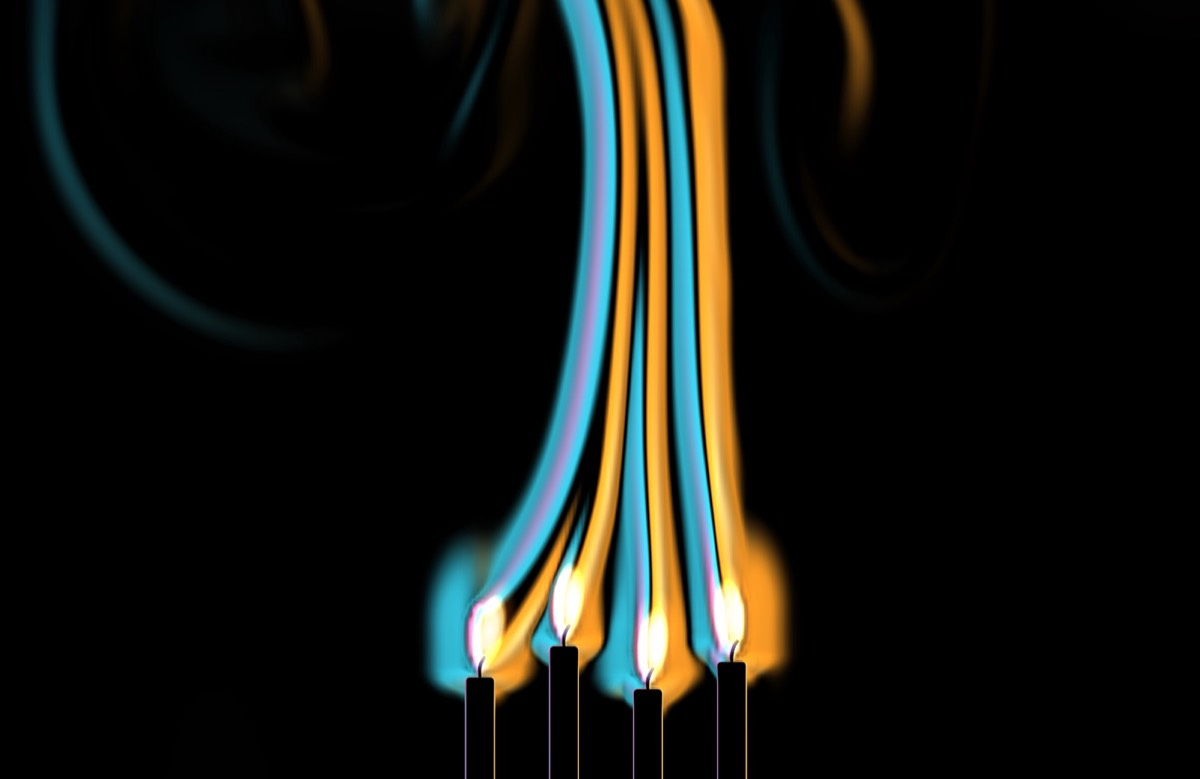
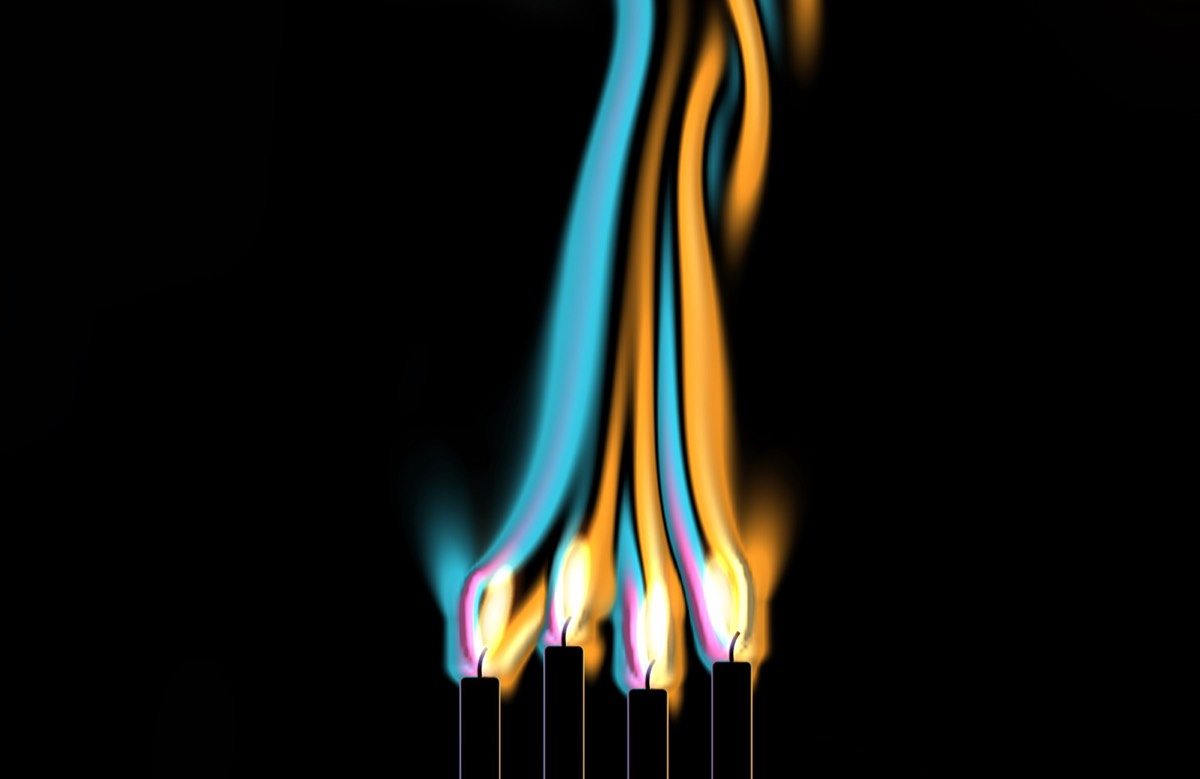
Schlieren: match the photos more closely; version 0.57.1
Side by side with Davidhazy's and Settles' photos, plumes were thin ribbons
cycling through every colour and puffed into a bulb round each flame. Flame gas
now mixes down quickly above the flame, each flame is stamped with the first
centimetres of its plume as a widening cone (the V at the base), the rainbow
and dark field hold their outer colours instead of going black, and each filter
gets its rig's gain. A mug sheds several columns and its walls glow less, and
the precomputed flame stamps take 0.6 ms off the frame.

diff --git a/Sources/Atrium/Schlieren.swift b/Sources/Atrium/Schlieren.swift
@@ -16,9 +16,12 @@ final class Schlieren: SKScene {
     /// µrad filter near the flame, as in the photos; a mug's plume bends light a tenth as much, so its rig is more
     /// sensitive (research notes in docs/schlieren.md).
     nonisolated static let sources: [(name: String, metres: Float, depth: Float, span: Float)] = [
-        ("Candles", 0.18, 0.012, 450), ("Candle", 0.32, 0.02, 260), ("Mug", 0.34, 0.05, 90), ("Warm air", 0.4, 0.08, 120),
+        ("Candles", 0.13, 0.012, 450), ("Candle", 0.32, 0.02, 260), ("Mug", 0.34, 0.05, 90), ("Warm air", 0.4, 0.08, 120),
     ]
     nonisolated static let filters = ["Dark field", "Rainbow", "Bands", "Knife edge"]
+    /// Each filter's rig as it was set in the photos: the rainbow and band shots run their plumes out to the filter's
+    /// outer colours, the dark field and knife edge keep them softer.
+    nonisolated static let filterGain: [Float] = [1, 2, 1.6, 1]
     nonisolated static let knobs = [
         Knob(key: "schlieren.source", label: "Heat", range: 0...Double(sources.count - 1), standard: 0, format: .choice(sources.map(\.name))),
         Knob(key: "schlieren.filter", label: "Filter", range: 0...Double(filters.count - 1), standard: 0, format: .choice(filters)),
@@ -75,7 +78,7 @@ final class Schlieren: SKScene {
         screen.anchorPoint = .zero
         uniforms.aspect.floatValue = Float(size.width / size.height)
         // the light doesn't quite focus on the filter's centre everywhere, so the background drifts a little across it
-        uniforms.tilt.vectorFloat2Value = [Float.random(in: -0.25...0.25), Float.random(in: -0.1...0.1)]
+        uniforms.tilt.vectorFloat2Value = [Float.random(in: -0.15...0.15), Float.random(in: -0.08...0.08)]
         screen.shader = SKShader(source: shaderCommon + Self.shader, uniforms: [
             uniforms.field, uniforms.mask, uniforms.filter, uniforms.texel, uniforms.mtexel, uniforms.gain, uniforms.mirror,
             uniforms.aspect, uniforms.tilt, uniforms.visible, WallpaperTime.now,
@@ -94,7 +97,7 @@ final class Schlieren: SKScene {
         shown = (source, filter)
         let s = Self.sources[source]
         // bend in filter half-widths per unit of ∇(T0/T) per fine cell: (n0 − 1)·depth / span / cell size
-        uniforms.gain.floatValue = 2.72e-4 * s.depth / (s.span * 1e-6) / air.cell * Float(Self.knobs[2].value)
+        uniforms.gain.floatValue = 2.72e-4 * s.depth / (s.span * 1e-6) / air.cell * Float(Self.knobs[2].value) * Self.filterGain[filter]
         uniforms.mirror.floatValue = Float(Self.knobs[5].value)
         for (uniform, knob) in zip(look, gradeKnobs("schlieren")) { uniform.floatValue = Float(knob.value) }
     }
@@ -122,9 +125,9 @@ final class Schlieren: SKScene {
         case 2: // a mug of coffee at 70 °C: its surface and walls warm the air (θ = ΔT/T0)
             let x = 0.5 * width, r: Float = 0.042, h: Float = 0.095, base: Float = 0.01
             air.addSolid(x0: x - r, x1: x + r, y0: 0, y1: base + h)
-            air.heaters.append(.init(x: x, y: base + h, width: 2 * r * 0.92, height: 0.006, heat: 0.15, flame: false))
+            air.heaters.append(.init(x: x, y: base + h - 0.003, width: 2 * r * 0.9, height: 0.005, heat: 0.15, flame: false, ripple: 0.4))
             for side: Float in [-1, 1] {
-                air.heaters.append(.init(x: x + side * (r + 0.002), y: base + 0.01, width: 0.004, height: h - 0.012, heat: 0.1, flame: false))
+                air.heaters.append(.init(x: x + side * (r + 0.001), y: base + 0.01, width: 0.002, height: h - 0.012, heat: 0.05, flame: false))
             }
             shapes.append { ctx in
                 let cx = CGFloat(x), r = CGFloat(r), h = CGFloat(h), base = CGFloat(base)
@@ -137,7 +140,7 @@ final class Schlieren: SKScene {
             let top: Float = 0.018
             air.addSolid(x0: 0, x1: width, y0: 0, y1: top)
             for i in 0..<5 {
-                air.heaters.append(.init(x: (0.1 + 0.2 * Float(i)) * width, y: top, width: 0.06, height: 0.006, heat: 0.2, flame: false))
+                air.heaters.append(.init(x: (0.1 + 0.2 * Float(i)) * width, y: top, width: 0.06, height: 0.006, heat: 0.2, flame: false, ripple: 0.6))
             }
             air.cool = 0.35
             shapes.append { ctx in
@@ -171,7 +174,7 @@ final class Schlieren: SKScene {
         for flame in flames { flame.node.removeFromParent() }
         flames = air.heaters.indices.filter { air.heaters[$0].flame }.map { i in
             let h = air.heaters[i]
-            let node = SKSpriteNode(texture: Self.flameTexture, size: CGSize(width: CGFloat(h.width) * scale.x * 2, height: CGFloat(h.height) * scale.y * 1.5))
+            let node = SKSpriteNode(texture: Self.flameTexture, size: CGSize(width: CGFloat(h.width) * scale.x * 1.5, height: CGFloat(h.height) * scale.y * 1.5))
             node.anchorPoint = CGPoint(x: 0.5, y: 0.08)
             node.blendMode = .add
             node.zPosition = 1
@@ -234,7 +237,8 @@ final class Schlieren: SKScene {
 
     /// What the camera sees for a bend of (x, y) filter half-widths, over ±2 half-widths: the filter's colour
     /// averaged over the light source's image as the bend slides it across, a slit for the strips and knife edge, a
-    /// pinhole round the dark field's stop. Past the filter's edge is its opaque holder, so the brightest bends go black.
+    /// pinhole round the dark field's stop. The bands end in an opaque holder, so their strongest bends go black; the
+    /// rainbow's and dark field's outer colours run on, as round the flames in Davidhazy's and Settles' photos.
     nonisolated static func filterTable(_ filter: Int, _ c: [SIMD3<Float>]) -> SKTexture {
         let n = 128
         var source: [SIMD2<Float>] = []
@@ -256,9 +260,9 @@ final class Schlieren: SKScene {
             case 0: // a round stop, ringed by the left colours on the left and the right colours on the right
                 let r = simd_length(p), side = smooth(-0.7, 0.7, p.x / max(r, 1e-4))
                 let inner = simd_mix(c[1], c[3], SIMD3(repeating: side)), outer = simd_mix(c[0], c[4], SIMD3(repeating: side))
-                return simd_mix(inner, outer, SIMD3(repeating: smooth(0.35, 1.3, r))) * smooth(0.18, 0.2, r) * (1 - smooth(1.7, 1.9, r))
-            case 1: // a continuous strip, as in rainbow schlieren
-                return ramp(p.x) * (1 - smooth(1.15, 1.3, abs(p.x)))
+                return simd_mix(inner, outer, SIMD3(repeating: smooth(0.35, 1.3, r))) * smooth(0.18, 0.2, r)
+            case 1: // a continuous strip, as in rainbow schlieren, its end colours running on to the edge
+                return ramp(p.x)
             case 2: // coloured strips, with the thin dark gaps between an LED's dies
                 let x = abs(p.x), band = x < 0.3 ? 2 : x < 0.9 ? (p.x < 0 ? 1 : 3) : x < 1.4 ? (p.x < 0 ? 0 : 4) : -1
                 let gap = min(abs(x - 0.3), abs(x - 0.9), abs(x - 1.4)) < 0.035 ? Float(0.15) : 1
@@ -345,7 +349,7 @@ final class Schlieren: SKScene {
 /// lacks, where a real plume spreads and dilutes.
 final class AirSim {
     /// A source of heat: a flame (a teardrop of hot gas `heat` hot, in a halo of warmed air) or a warm patch.
-    struct Heater { var x, y, width, height, heat: Float; var flame: Bool }
+    struct Heater { var x, y, width, height, heat: Float; var flame: Bool; var ripple: Float = 0 }
 
     let nx: Int, ny: Int, w: Int, h: Float
     let fx: Int, fy: Int, fw: Int, cell: Float
@@ -354,7 +358,8 @@ final class AirSim {
     private(set) var t: UnsafeMutablePointer<Float>
     private var t1, t2, ox, oy, lo, hi: UnsafeMutablePointer<Float>
     private var solid: [Bool]
-    var heaters: [Heater] = []
+    var heaters: [Heater] = [] { didSet { stamps = [:] } }
+    private var stamps: [Int: (x0: Int, y0: Int, cols: Int, values: [Float])] = [:]
     var draftStrength: Float = 0.02
     var wander = false
     private var draft: [Float], time: Float = 0
@@ -435,43 +440,72 @@ final class AirSim {
         advect(u, into: a, dt); advect(v, into: b, dt)
         swap(&u, &a); swap(&v, &b)
         advectFine(dt)
-        // warm air mixes out, spreading and cooling
-        let passes = max(1, Int((diffuse * dt / (cell * cell) / 0.2).rounded(.up)))
+        // warm air mixes out, spreading and cooling; flame gas, hundreds of degrees hotter, mixes down to a few hundred
+        // within a couple of centimetres (θ ≈ 1 by the flame's tip, NIST), so the plume above is broad and smooth
+        let passes = max(1, Int((diffuse * dt / (cell * cell) / 0.24).rounded(.up))) // explicit diffusion is stable to 0.25
         let decay = exp(-cool * dt / Float(passes)), c = diffuse * dt / (cell * cell) / Float(passes)
+        let quench = 1 - exp(-12 * dt / Float(passes))
         for _ in 0..<passes {
             for y in 1...fy { for x in 1...fx {
                 let k = y * fw + x
-                t2[k] = (t[k] + c * (t[k - 1] + t[k + 1] + t[k - fw] + t[k + fw] - 4 * t[k])) * decay
+                let mixed = t[k] + c * (t[k - 1] + t[k + 1] + t[k - fw] + t[k + fw] - 4 * t[k])
+                t2[k] = (mixed - max(mixed - 0.8, 0) * quench) * decay
             } }
             swap(&t, &t2)
         }
         time += dt
     }
 
-    /// Holds each heater's air at its temperature: a flame is a teardrop of gas at ~1150 K (θ = 3) in a halo of air
-    /// it has warmed, which makes the plume as wide as the candle, as in the photos.
+    /// Holds each heater's air at its temperature. A flame is a teardrop of gas at ~1150 K (θ = 3), and above it the
+    /// first few centimetres of its plume: a cone that starts as wide as the flame and widens and cools as it rises
+    /// (θ ≈ 1 by the tip, NIST), after which the sim carries it on. That gives the V the photos show at the base. Flames
+    /// are stamped from a table made once; warm patches, which ripple, are drawn each step.
     private func heat() {
         let fw = fw, cell = cell
         for (i, f) in heaters.enumerated() {
-            let halo: Float = f.flame ? f.width * 1.2 : 0, tall = f.flame ? f.height * flicker(i) : f.height
-            let x0 = max(1, Int((f.x - f.width - 3 * halo) / cell)), x1 = min(fx, Int((f.x + f.width + 3 * halo) / cell) + 1)
-            let y0 = max(1, Int((f.y - halo) / cell)), y1 = min(fy, Int((f.y + tall + 6 * halo) / cell) + 1) // where the halo fades out
+            if f.flame {
+                if stamps[i] == nil { stamps[i] = stamp(f) }
+                let (x0, y0, cols, values) = stamps[i]!
+                var j = 0
+                for y in y0..<y0 + values.count / cols {
+                    let row = y * fw
+                    for x in x0..<x0 + cols { t[row + x] = max(t[row + x], values[j]); j += 1 }
+                }
+                continue
+            }
+            let x0 = max(1, Int((f.x - f.width) / cell)), x1 = min(fx, Int((f.x + f.width) / cell) + 1)
+            let y0 = max(1, Int((f.y - f.height) / cell)), y1 = min(fy, Int((f.y + 2 * f.height) / cell) + 1)
             guard x0 <= x1, y0 <= y1 else { continue }
             for y in y0...y1 { for x in x0...x1 {
                 let px = (Float(x) - 0.5) * cell - f.x, py = (Float(y) - 0.5) * cell - f.y
-                var q: Float
-                if f.flame {
-                    let e = px * px / (f.width * f.width * 0.25) + pow((py - tall * 0.45) / (tall * 0.55), 2)
-                    let above = max(py - tall * 0.6, 0), below = min(py, 0)
-                    q = max(e < 1 ? f.heat * (1 - e * e) : 0, 0.8 * exp(-(px * px + above * above * 0.3 + below * below * 4) / (halo * halo)))
-                } else {
-                    let ex = max(abs(px) - f.width * 0.5, 0) / (cell * 2), ey = max(abs(py - f.height * 0.5) - f.height * 0.5, 0) / (cell * 2)
-                    q = f.heat * exp(-ex * ex - ey * ey)
-                }
+                let ex = max(abs(px) - f.width * 0.5, 0) / (cell * 2), ey = max(abs(py - f.height * 0.5) - f.height * 0.5, 0) / (cell * 2)
+                // a warm surface sheds its heat from a few wandering spots, not evenly
+                let spots = f.ripple * (sin(px * 260 + time * 0.7) * sin(px * 97 - time * 0.45 + Float(i)))
                 let k = y * fw + x
-                t[k] = max(t[k], q)
+                t[k] = max(t[k], f.heat * exp(-ex * ex - ey * ey) * (1 + spots))
             } }
         }
+    }
+
+    /// A flame and the start of its plume, as θ on the fine cells round it: its first cell and the table's width.
+    private func stamp(_ f: Heater) -> (x0: Int, y0: Int, cols: Int, values: [Float]) {
+        let rise = f.height * 2.5, spread: Float = 0.3 // the cone's height, and how fast it widens
+        let reach = f.width + (f.width * 0.5 + spread * rise) * 2
+        let x0 = max(1, Int((f.x - reach) / cell)), x1 = min(fx, Int((f.x + reach) / cell) + 1)
+        let y0 = max(1, Int((f.y - f.width) / cell)), y1 = min(fy, Int((f.y + f.height + rise) / cell) + 1)
+        guard x0 <= x1, y0 <= y1 else { return (1, 1, 1, []) }
+        var values: [Float] = []
+        for y in y0...y1 { for x in x0...x1 {
+            let px = (Float(x) - 0.5) * cell - f.x, py = (Float(y) - 0.5) * cell - f.y
+            let dy = (py - f.height * 0.45) / (f.height * 0.55), e = px * px / (f.width * f.width * 0.25) + dy * dy
+            let flame = e < 1 ? f.heat * (1 - e * e) : 0
+            // the cone: from the flame's middle up, a Gaussian across that widens as it cools, fading in below
+            let z = max(py - f.height * 0.5, 0), width = f.width * 0.5 + spread * z
+            let fade = py < 0 ? exp(-py * py / (f.width * f.width * 0.1)) : 1
+            let cone = 1.1 / (1 + 2.5 * z / f.height) * exp(-px * px / (width * width)) * fade * max(1 - z / rise, 0)
+            values.append(max(flame, cone))
+        } }
+        return (x0, y0, x1 - x0 + 1, values)
     }
 
     /// Vorticity confinement: puts back the small swirls that the coarse grid smooths away.

diff --git a/docs/schlieren.md b/docs/schlieren.md
@@ -21,12 +21,13 @@ Rising heat as a colour schlieren camera sees it, after the photos of Gary Settl
    - Air's own dispersion is 1–2% across the visible, so all the colour comes from the filter.
 2. **Filters** (`filterTable`). A pixel's colour is ∫ S(p)·F(p + Δ) dp: the filter F averaged over the source's image S as the bend slides it across. That's baked on the CPU into a 128×128 table over ±2 half-widths, and the shader does one lookup.
    - The source's image is a slit (24 samples, 0.24 half-widths wide) for the strips and knife edge, and a disc (48 golden-angle samples, radius 0.13) for the dark field. Its size is what softens every hue boundary into a ramp, as in the photos.
-   - Past the filter's edge is its opaque holder, so the strongest bends go black: around the flame, along a hot mug wall, at the edge of a plume that's too strong for the rig, as in real photos.
+   - The bands end in an opaque holder, so their strongest bends go black, as in Settles' tricolour photo. The rainbow's and the dark field's outer colours run on to the table's edge. Round the flames in Davidhazy's and Settles' photos the colour saturates rather than going black, and a first version that blacked them out looked wrong beside them.
+   - Each filter has its own gain (`filterGain`: dark field 1, rainbow 2, bands 1.6, knife edge 1), for its rig as set in the photos. The rainbow and band shots run their plumes out to the outer colours; the dark field and knife edge keep them softer.
 
    | Filter | Background | What it shows | After |
    |---|---|---|---|
-   | Dark field (default) | black | a round stop ringed by the left colours on the left and the right colours on the right; brightness grows with the bend, so plumes glow on black | Settles' candle bands, his teakettle |
-   | Rainbow | the centre colour | a continuous strip through all five colours; colour tracks the sideways bend | Davidhazy's four candles, Howes' and Greenberg's continuous filters |
+   | Dark field (default) | black | a round stop ringed by the left colours on the left and the right colours on the right; brightness grows with the bend, so plumes glow on black, and the outer colours run on | Settles' candle bands, his teakettle |
+   | Rainbow | the centre colour | a continuous strip through all five colours, its ends running on; colour tracks the sideways bend | Davidhazy's four candles, Howes' and Greenberg's continuous filters |
    | Bands | the centre colour | coloured strips (0.3 and 0.9 half-widths), with the thin dark gaps between an LED's dies | Settles' red-field candle (a tricolour LED at the source, a slit at the cutoff) |
    | Knife edge | the centre colour | a knife edge graded from shade to clear: relief, lit from one side, tinted by the palette | Kinsman's pastel candles, Settles' sepia transition photo |
 
@@ -35,16 +36,19 @@ Rising heat as a colour schlieren camera sees it, after the photos of Gary Settl
    - Velocity runs on a coarse grid, 64 rows for the frame plus 8 above it, so plumes leave the picture before they meet the sim's edge. That's 99×72 at 16:10. It uses FlameSim's scheme (Stam's stable fluids, red-black SOR with 16 iterations, vorticity confinement), with its own sources and boundaries.
    - Temperature, θ = ΔT/T0, runs on a grid three times finer (297×216) by MacCormack advection (Selle et al. 2008), limited to the cells it read so it can't overshoot. Schlieren is a derivative, so numerical diffusion erases exactly the thin edges it shows. A plain semi-Lagrangian field lost them.
    - Buoyancy is g·θ/(1 + θ), against the room's mean. The edges are open: pressure 0 past them, with velocity copied into the ghost ring. Open edges let a drift of the whole field build up, which went unstable within 10 s of sim time in the prototype. So the mean velocity is removed every step, as in a still room.
-   - A 2D slice can't spread heat sideways in depth, as a real plume does. Drag (1.2/s), cooling (1/s, 0.35 for the radiator) and a little diffusion (3e-5 m²/s) stand in for it, so plumes don't accelerate forever.
+   - A 2D slice can't spread heat sideways in depth, as a real plume does. Drag (1.2/s), cooling (1/s, 0.35 for the radiator) and a little diffusion (3e-5 m²/s, explicit, in as many passes as keep it under 0.25 a pass) stand in for it, so plumes don't accelerate forever.
+   - Flame gas above θ 0.8 is quenched toward it at 12/s. Gas hundreds of degrees hotter than the plume mixes down within a couple of centimetres (θ ≈ 1 by the tip, NIST). Without it, a thin thread of flame-hot gas rose through each plume and drew it as narrow ribbons cycling through every colour, where the photos show broad, smooth bands.
    - A draft drifts back and forth, a little differently at each height (two sines over time plus a shear wave 25 rad/m tall). That sets plumes swaying and kinks them into curls and turbulence, as room air does. Without it a single candle stayed laminar to the top of the frame.
    - Room air comes in at the bottom and sides, and at the top the air leaves as it is.
 5. **Heat sources** (`build`). Sizes are real:
-   - **Candles:** four birthday candles 6.4 mm across, with 6×16 mm flames, in a 0.18 m frame.
+   - **Candles:** four birthday candles 6.4 mm across, with 6×16 mm flames, in a 0.13 m frame, about Davidhazy's.
    - **Candle:** one 21 mm taper (NIST's, with a 42 mm flame; ours is 34 mm tall) in a 0.32 m frame.
-   - **Mug:** 84 mm across and 95 mm tall. Its coffee surface is at θ 0.15 (about 70 °C) and its walls at 0.1, in a 0.34 m frame.
+   - **Mug:** 84 mm across and 95 mm tall, in a 0.34 m frame. Its coffee surface, just below the rim, is at θ 0.15 (about 70 °C). Its walls are at 0.05 in a 2 mm layer; at 0.1 and 4 mm they glowed far brighter than Kinsman's thin halo.
    - **Warm air:** a radiator along the bottom with five hotter patches at θ 0.2.
 
-   A flame holds a teardrop of gas at θ 3 (about 1150 K), in a halo of warmed air 1.2 flame-widths wide, which makes the plume as wide as the candle, as in the photos. `span` per source follows the research: candles saturate a 100–300 µrad filter near the flame, while a mug's plume bends light a tenth as much, so its rig is more sensitive.
+   - A flame is `stamp`ed each step from a table made once. It's a teardrop of gas at θ 3 (about 1150 K). Above it sits the first 2.5 flame heights of its plume: a Gaussian across, starting half a flame wide at the flame's middle and widening 0.3 m per metre, with θ = 1.1/(1 + 2.5z/height), fading to nothing at the cone's top and just below the flame. That gives the V the photos show at the base. A round halo round the flame instead made a bulb wider than the plume above it, which no photo shows.
+   - Warm patches (the mug, the radiator) are drawn each step, since they ripple. Their heat comes off in a few wandering spots (two sines across them) rather than evenly, so a mug sheds several columns.
+   - `span` per source follows the research: candles saturate a 100–300 µrad filter near the flame, while a mug's plume bends light a tenth as much, so its rig is more sensitive.
 6. **Shader.**
    - The bend is a central difference of T0/T (16 bits in red and green, linear filtering) at ±1 fine texel. That's a bilinear interpolation of the cell differences, so it's continuous.
    - Faint, slow mottling (value noise, 0.05 half-widths) stands for room air that's never quite still.
@@ -74,7 +78,7 @@ Rising heat as a colour schlieren camera sees it, after the photos of Gary Settl
 | `schlieren.palette` | Colors | Candlelight, Spectrum, Tricolour, Pastel, Ember, Sapphire, Emerald, Amethyst | Random | rebuilds |
 
 ## Performance
-- Release, 2x, 2026-09-28: CPU 1.75–2.0 ms, GPU 0.35–1.6 ms per frame. The GPU is highest with the mirror and on bright screens.
+- Release, 2x, 2026-09-28: CPU 1.9–2.1 ms, GPU 0.35–1.6 ms per frame. The GPU is highest with the mirror and on bright screens.
 - The CPU is one sim step a frame at about 1.1 ms (99×72 coarse, 297×216 fine), plus the upload.
 - Two displays, or Settings' live preview, run a sim each.
 - Debug builds are about 30 times slower on the CPU.
@@ -106,7 +110,8 @@ Two research agents, 2026-09-28. The notes are summarised here. The photos (30, 
 
 ## Gotchas and shortcuts
 - **Open boundaries drift.** With pressure 0 all round and nothing removing it, a uniform flow of the whole field grew until everything poured up or down at 4 m/s. Removing the mean velocity each step (and buoyancy against the mean) fixed it. Copying velocity into the ghost ring keeps flow through an edge from reading as divergence.
-- **Box edges show.** Any heater drawn into a box shows the box's edge as a hard line, since schlieren sees gradients. The flame halo fades out below the flame and six halo-widths above it.
+- **Box edges show.** Any heater drawn into a box shows the box's edge as a hard line, since schlieren sees gradients. Every heater fades to nothing inside its box.
+- **Heat drawing costs.** Evaluating each flame's halo every step (exp and pow over 18k cells a flame) took 0.6 ms of the budget. The stamp tables made that a copy.
 - **The sim's top edge** showed as a line until the grid ran on above the frame (`above`, `u_visible`).
 - `ponytail:` the sim is plain scalar Swift on the main thread, about 1.1 ms a step. If finer filaments or faster Speed are wanted, it moves to a Metal compute pass. The two edge lines of a stem are 3–4 fine cells apart, about 15 pt, which is enough.
 - `ponytail:` the 2D slice stands in for an axisymmetric plume with a fixed `depth`. A real plume's peak bend doesn't depend on its width (1.52·Δn at 0.71 radii), whereas here wider plumes bend a little less.

diff --git a/docs/README.md b/docs/README.md
@@ -23,7 +23,7 @@ One file per wallpaper, recording what the code can't: how each scene works, why
 | Campfire | [campfire.md](campfire.md) | `Campfire.swift`, `CampfireFlames.swift`, `Resources/campfire-*` | photo ground relit by the fire, fluid-sim flames, shaders | none | location (real stars) | 1.11 / 0.84 |
 | Game of Life | [game-of-life.md](game-of-life.md) | `GameOfLife.swift` | mutable texture | Calm or Classic, speed, exposure, softness | none | 0.55 / 0.36 |
 | Turing Patterns | [turing-patterns.md](turing-patterns.md) | `TuringPatterns.swift` | CPU reaction–diffusion, lit by a shader | pattern (or Drift), motion (Regrow, Flow, Still), speed, 6 palettes | none | 0.9–1.35 / 0.3–0.75 |
-| Schlieren | [schlieren.md](schlieren.md) | `Schlieren.swift` | CPU fluid sim (MacCormack heat on a fine grid), schlieren optics in a shader | heat source, filter, sensitivity, speed, draft, round mirror, 8 palettes, Look | none | 1.75–2.0 / 0.35–1.6 |
+| Schlieren | [schlieren.md](schlieren.md) | `Schlieren.swift` | CPU fluid sim (MacCormack heat on a fine grid), schlieren optics in a shader | heat source, filter, sensitivity, speed, draft, round mirror, 8 palettes, Look | none | 1.9–2.1 / 0.35–1.6 |
 | The Sun (live, in Solar System Tour) | [sun.md](sun.md) | `Sun.swift` | downloaded SDO images, one shader | 8 wavelengths, still or alive, flares and eruptions (how often), liveliness, whole or close-up, Look | SDO via Helioviewer | 0.45–0.6 / 0.3–0.9 |
 | Wind | [wind.md](wind.md) | `Wind.swift`, `Resources/wind-*` | stateless streaks in one shader (a take on OLIC) over NASA Earth imagery or Natural Earth relief | zoom, background (Earth by day or night, terrain and sea floor, yesterday's satellite, relief, none) and its opacity, brightness and saturation, comets or brush strokes, speed, streak length, density, 6 palettes | location, Open-Meteo wind grid, NASA GIBS tiles | 0.45–0.6 / 1.4–1.6 |
 | Dappled Light | [dappled-light.md](dappled-light.md) | `DappledLight.swift`, `Resources/dappled-*` | one shader: pinhole images of the Sun, leaf layers baked from real scans, photo plaster | wall facing, leaf cover, near twig, weather lock, moonlight or streetlight, sway, time and eclipse previews | location, Sun and Moon, Open-Meteo | 0.41–0.54 / 0.57–0.99 |
